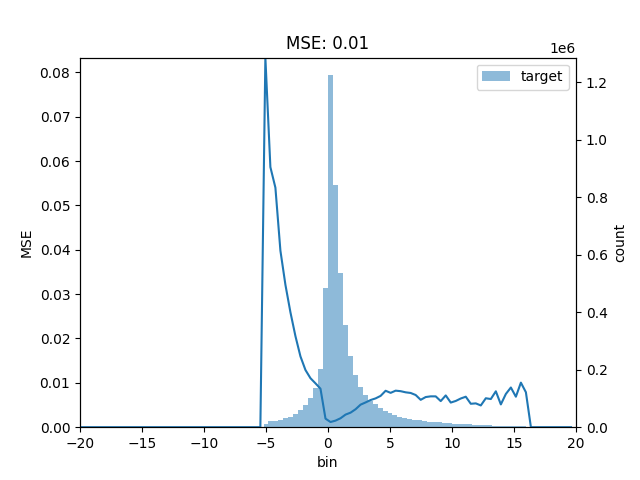
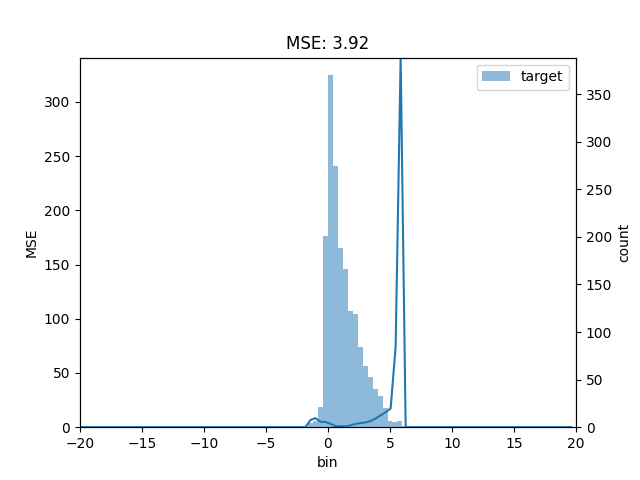
changed data reading to include the experimental data

diff --git a/load_model.py b/load_model.py
@@ -43,7 +43,7 @@ def convert_config(config):
 
 if __name__ == '__main__':
     path = '/home/bene/NNGamma/Models/'
-    name = '2021090123_minGPT'
+    name = '200905-071911'
     save_path = '/home/bene/NNGamma/temp/'
     model, config = load_model(path,name)
 
@@ -58,6 +58,7 @@ if __name__ == '__main__':
             criterion = nn.MSELoss()
 
         data_path = os.path.join('/home/bene/NNGamma/' + config.data_path + '/')
+        #data_path = os.path.join('/home/bene/NNGamma/data_exp/')
 
         print('-' * 89)
         print('Loading Data...')
